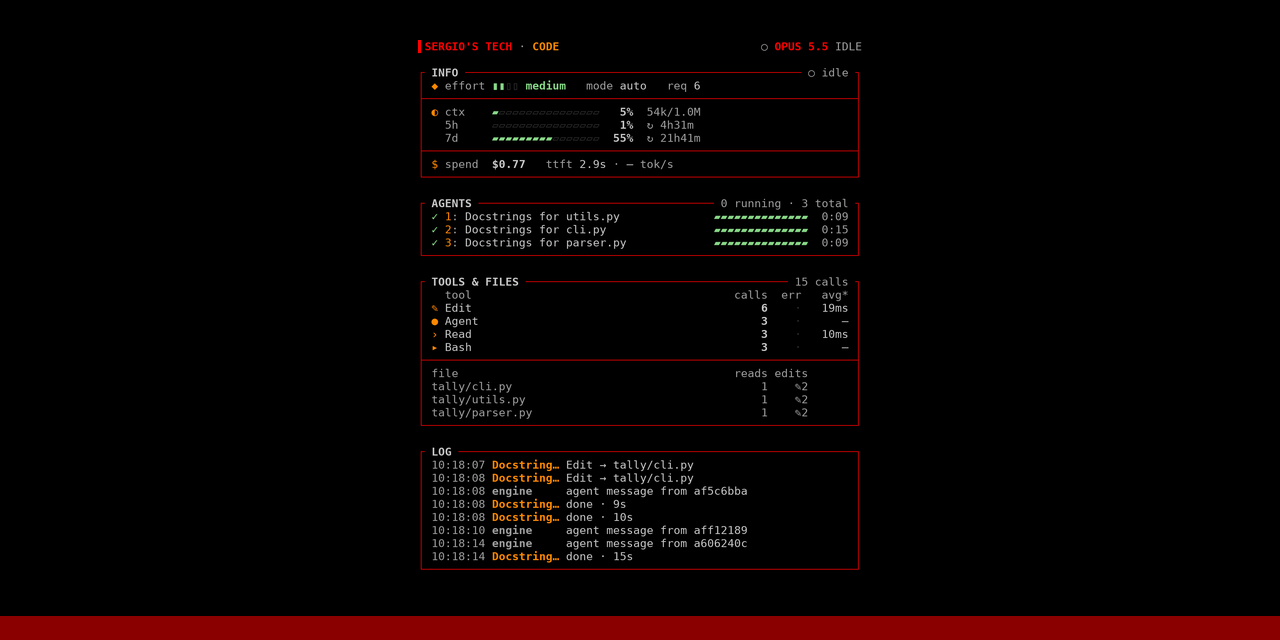
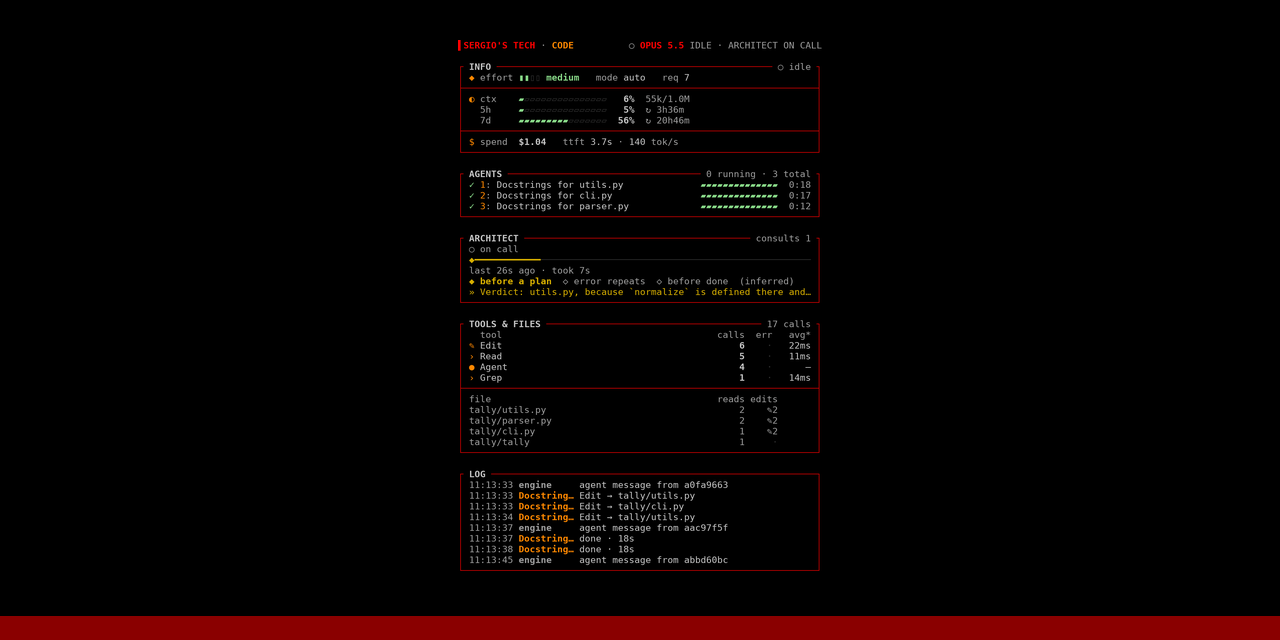
Recapture the media with the ARCHITECT panel

Changed region(s): [[0.3125, 0.0625, 0.6875, 0.9062]]

diff --git a/README.md b/README.md
@@ -10,7 +10,7 @@ consults, the busiest tools and files, and a session log. Every number comes fro
 your machine.
 
 <p align="center">
-  <img src="docs/media/demo.gif" alt="The st-code pane, docked at 66 columns, through a real three-subagent run: INFO switches to working, three agents appear in AGENTS with a bouncing bar while they run and a full green bar with a check once done, TOOLS &amp; FILES counts the calls and the files each agent edited, and the LOG fills with the prompt, spawns, edits and completions" width="528">
+  <img src="docs/media/demo.gif" alt="The st-code pane, docked at 66 columns, through a real run with three subagents and an architect: INFO switches to an orange working state, three agents appear in AGENTS with a bouncing bar while they run and a full green bar with a check once done, the header reads ARCHITECT ADVISING while the ARCHITECT panel draws the consult on its timeline, then ON CALL with the 7-second consult marked before a plan and its verdict that normalize belongs in utils.py, TOOLS &amp; FILES counts the calls and the files each agent read and edited, and the LOG, running to the pane's bottom edge, fills with the prompt, spawns, the architect's advice, edits and completions while the spend climbs to $1.04" width="528">
 </p>
 
 <p align="center">
@@ -51,12 +51,12 @@ releases. If something breaks after an update, see [Troubleshooting](#troublesho
 ## What you see
 
 <p align="center">
-  <img src="docs/media/docked-session.png" alt="A fullscreen session 160 columns wide: on the left, the transcript reports three finished subagents that added docstrings and lists each function's new docstring; on the right, the docked st-code pane shows the SERGIO'S TECH · CODE header over INFO, AGENTS with three finished agents, TOOLS &amp; FILES and LOG in one column" width="820">
+  <img src="docs/media/docked-session.png" alt="A fullscreen session 160 columns wide: on the left, the transcript reports three finished subagents that added docstrings and the architect's answer, lists each function's new docstring, notes that the 5 tests pass and ends with the architect's verdict that normalize belongs in utils.py; on the right, the docked st-code pane shows the SERGIO'S TECH · CODE header with OPUS 5.5 IDLE · ARCHITECT ON CALL over INFO at $1.04 spent, AGENTS with three finished agents, ARCHITECT with one 7-second consult and its verdict, TOOLS &amp; FILES with 17 calls, and the LOG running down to the pane's bottom edge, in one column" width="820">
 </p>
 
 | Two columns, in a 120-column dock | One column, in the default 66-column dock |
 | --- | --- |
-| <img src="docs/media/docked-wide.png" alt="The wide layout: INFO and TOOLS &amp; FILES stacked on the left, AGENTS on the right with three finished agents, and the LOG across the full width underneath, listing edits to tally/cli.py and tally/parser.py and the agents finishing" width="480"> | <img src="docs/media/compact.png" alt="The compact layout close up: INFO, AGENTS with three finished agents, TOOLS &amp; FILES and LOG stacked in one column under the header, with the gauges and the reads and edits of each file" width="300"> |
+| <img src="docs/media/docked-wide.png" alt="The wide layout: INFO and TOOLS &amp; FILES stacked on the left, AGENTS with three finished agents and ARCHITECT on call after one 7-second consult on the right, and the LOG across the full width underneath down to the pane's bottom edge, listing the architect's advice, the edits to tally/parser.py, tally/cli.py and tally/utils.py and the agents finishing" width="480"> | <img src="docs/media/compact.png" alt="The compact layout close up: INFO, AGENTS with three finished agents, ARCHITECT on call with its consult on the timeline and its verdict, TOOLS &amp; FILES and LOG stacked in one column under the header, with green gauges at 6% context and 5% and 56% of the limits, the reads and edits of each file, and the LOG reaching the pane's bottom edge" width="300"> |
 
 <p align="center">
   <img src="docs/media/inline-mini.png" alt="A 100-column session with the summary inline above the prompt, in four rows: the model and its state, the effort, a context gauge, the 7-day and 5-hour limits and the session cost; then three finished subagents, each with a check, a full green bar and its clock" width="620">
